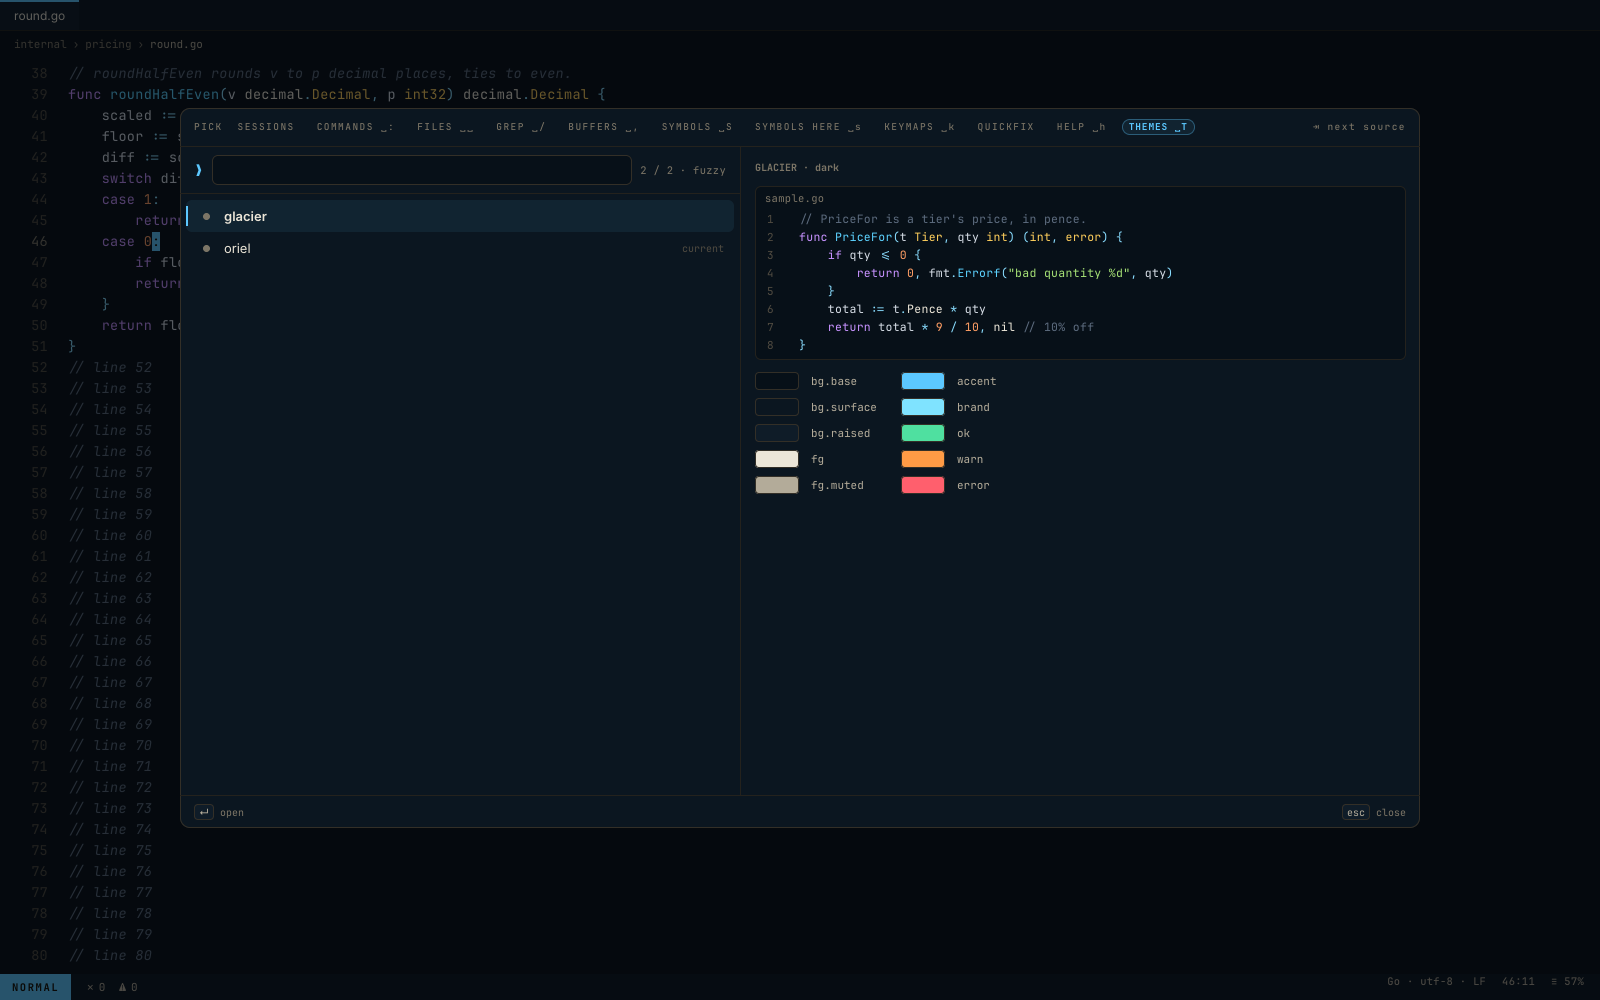
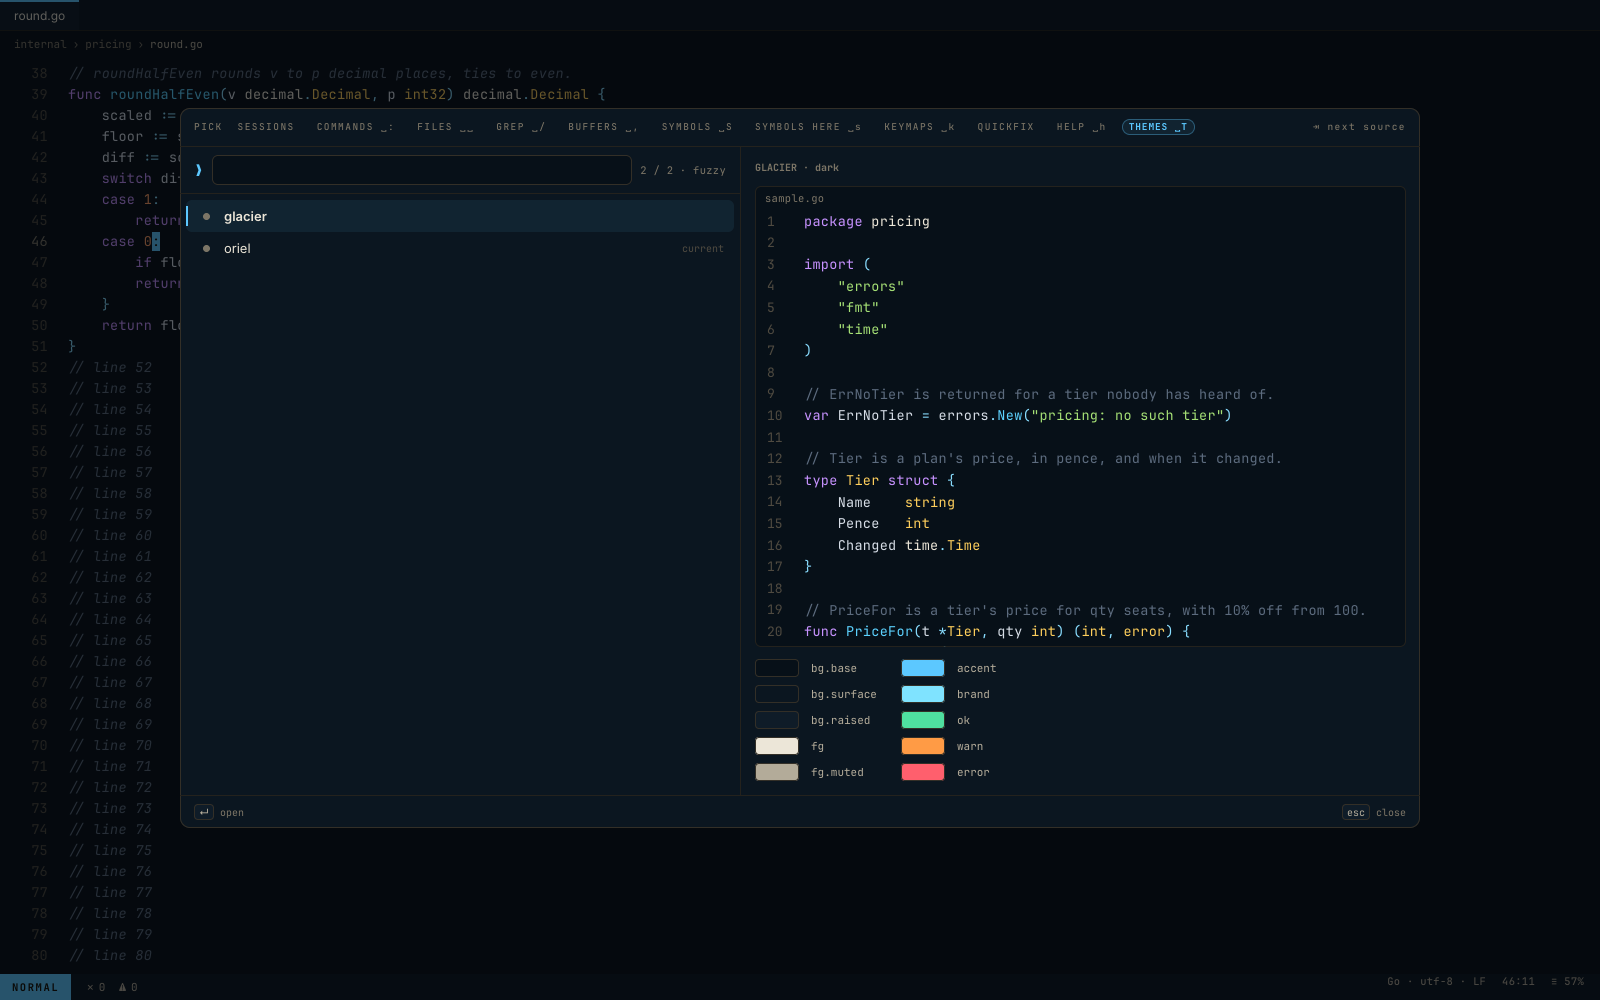
feat(app): theme preview code is bigger, fills the pane and scrolls

diff --git a/app/logpanel.go b/app/logpanel.go
@@ -517,6 +517,8 @@ type sourceFile struct {
 	mark    bool            // the failing line, marked
 	title   string          // the path its header shows; the file's own, home as ~, if ""
 	theme   *theme.Resolved // drawn in this, not the window's: a theme's preview
+	size    float32         // the code's font size; 11.5 if 0
+	fill    bool            // take the height it's given, scrolling the code in it
 }
 
 type span struct {
@@ -619,11 +621,19 @@ func (f *sourceFile) build(c *ui.Ctx, n *core.Notification) {
 	if f.title != "" {
 		shown = f.title
 	}
-	c.Column("src", ui.Style{W: ui.Flex(1), Fill: th.C(theme.BgBase), Stroke: th.C(theme.Line), Border: 1, Radius: 6, Clip: true}, func(c *ui.Ctx) {
+	size, lineH, numW := float32(11.5), float32(18), float32(22)
+	if f.size != 0 {
+		size, lineH, numW = f.size, f.size*1.6, f.size*2
+	}
+	box, lines := ui.Style{W: ui.Flex(1), Fill: th.C(theme.BgBase), Stroke: th.C(theme.Line), Border: 1, Radius: 6, Clip: true}, ui.Style{W: ui.Flex(1), Pad: ui.Insets{B: 6}}
+	if f.fill {
+		box.H, lines.H, lines.ScrollY = ui.Flex(1), ui.Flex(1), true
+	}
+	c.Column("src", box, func(c *ui.Ctx) {
 		c.Row("path", ui.Style{W: ui.Flex(1), H: ui.Px(24), Pad: ui.PadXY(10, 0), Cross: ui.Center}, func(c *ui.Ctx) {
 			c.Text(nil, shown, mono(10.5, typeset.Normal, th.C(theme.FgFaint)))
 		})
-		c.Column("lines", ui.Style{W: ui.Flex(1), Pad: ui.Insets{B: 6}}, func(c *ui.Ctx) {
+		c.Column("lines", lines, func(c *ui.Ctx) {
 			for i, ln := range f.spans {
 				no := f.first + i
 				failing := f.mark && no == f.line
@@ -631,14 +641,14 @@ func (f *sourceFile) build(c *ui.Ctx, n *core.Notification) {
 				if failing {
 					fill = th.C(tLogFailLine)
 				}
-				c.Row(no, ui.Style{W: ui.Flex(1), H: ui.Px(18), Gap: 10, Cross: ui.Center, Fill: fill}, func(c *ui.Ctx) {
+				c.Row(no, ui.Style{W: ui.Flex(1), H: ui.Px(lineH), Gap: 10, Cross: ui.Center, Fill: fill}, func(c *ui.Ctx) {
 					edge := color.NRGBA{}
 					if failing {
 						edge = th.C(theme.Error)
 					}
 					c.Box("edge", ui.Style{W: ui.Px(2), H: ui.Flex(1), Fill: edge}, nil)
-					c.Box("no", ui.Style{W: ui.Px(22)}, func(c *ui.Ctx) {
-						c.Text(nil, fmt.Sprint(no), mono(11, typeset.Normal, th.C(theme.FgGhost)))
+					c.Box("no", ui.Style{W: ui.Px(numW)}, func(c *ui.Ctx) {
+						c.Text(nil, fmt.Sprint(no), mono(size-0.5, typeset.Normal, th.C(theme.FgGhost)))
 					})
 					c.Row("code", ui.Style{W: ui.Flex(1), Clip: true}, func(c *ui.Ctx) {
 						for j, s := range ln {
@@ -646,7 +656,7 @@ func (f *sourceFile) build(c *ui.Ctx, n *core.Notification) {
 							if s.capture != "" {
 								col = th.Syntax("@" + s.capture).FG
 							}
-							c.Text(j, expandTabs(s.text), mono(11.5, typeset.Normal, col))
+							c.Text(j, expandTabs(s.text), mono(size, typeset.Normal, col))
 						}
 					})
 				})

diff --git a/app/builtins.go b/app/builtins.go
@@ -317,7 +317,7 @@ func themeSwatches(h ext.Host, name string) ui.Node {
 	return &ui.Func{Key: "swatches", Fn: func(c *ui.Ctx) {
 		th := c.Theme()
 		mono := ui.TextStyle{Font: typeset.FontSpec{Family: typeset.Mono, Size: 11}, Color: th.C(theme.FgMuted)}
-		c.Column("swatches", ui.Style{W: ui.Flex(1), Gap: 12}, func(c *ui.Ctx) {
+		c.Column("swatches", ui.Style{W: ui.Flex(1), H: ui.Flex(1), Gap: 12}, func(c *ui.Ctx) {
 			c.Text("name", strings.ToUpper(name)+" · "+string(variant), ui.TextStyle{Font: typeset.FontSpec{Family: typeset.Mono, Size: 10, Weight: typeset.SemiBold}, Color: th.C(theme.FgFaint)})
 			if err != nil {
 				c.Text("err", err.Error(), ui.TextStyle{Font: mono.Font, Color: th.C(theme.Error)})
@@ -325,7 +325,7 @@ func themeSwatches(h ext.Host, name string) ui.Node {
 			}
 			sample := strings.TrimRight(themeSample, "\n")
 			code := highlightAround(h, "sample.go", []byte(sample), 1, 0, strings.Count(sample, "\n"))
-			code.title, code.theme = "sample.go", r
+			code.title, code.theme, code.size, code.fill = "sample.go", r, 13.5, true
 			code.build(c, nil)
 			swatches := []struct {
 				tok  theme.TokenID
@@ -350,13 +350,37 @@ func themeSwatches(h ext.Host, name string) ui.Node {
 }
 
 // themeSample is the code a theme's preview highlights: keywords, types, strings, numbers, comments and calls.
-const themeSample = `// PriceFor is a tier's price, in pence.
-func PriceFor(t Tier, qty int) (int, error) {
+const themeSample = `package pricing
+
+import (
+	"errors"
+	"fmt"
+	"time"
+)
+
+// ErrNoTier is returned for a tier nobody has heard of.
+var ErrNoTier = errors.New("pricing: no such tier")
+
+// Tier is a plan's price, in pence, and when it changed.
+type Tier struct {
+	Name    string
+	Pence   int
+	Changed time.Time
+}
+
+// PriceFor is a tier's price for qty seats, with 10% off from 100.
+func PriceFor(t *Tier, qty int) (int, error) {
+	if t == nil {
+		return 0, ErrNoTier
+	}
 	if qty <= 0 {
 		return 0, fmt.Errorf("bad quantity %d", qty)
 	}
 	total := t.Pence * qty
-	return total * 9 / 10, nil // 10% off
+	if qty >= 100 {
+		total = total * 9 / 10 // volume discount
+	}
+	return total, nil
 }
 `
 

diff --git a/app/themepicker_test.go b/app/themepicker_test.go
@@ -121,7 +121,7 @@ func TestThemePickerSnapshot(t *testing.T) {
 	s.ui.SetTheme(r)
 	s.golden("theme-picker")
 	text := s.frameText()
-	for _, want := range []string{"sample.go", "PriceFor", "bad quantity", "accent", "error"} {
+	for _, want := range []string{"sample.go", "PriceFor", "ErrNoTier", "accent", "error"} {
 		if !strings.Contains(text, want) {
 			t.Errorf("the preview lacks %q", want)
 		}
